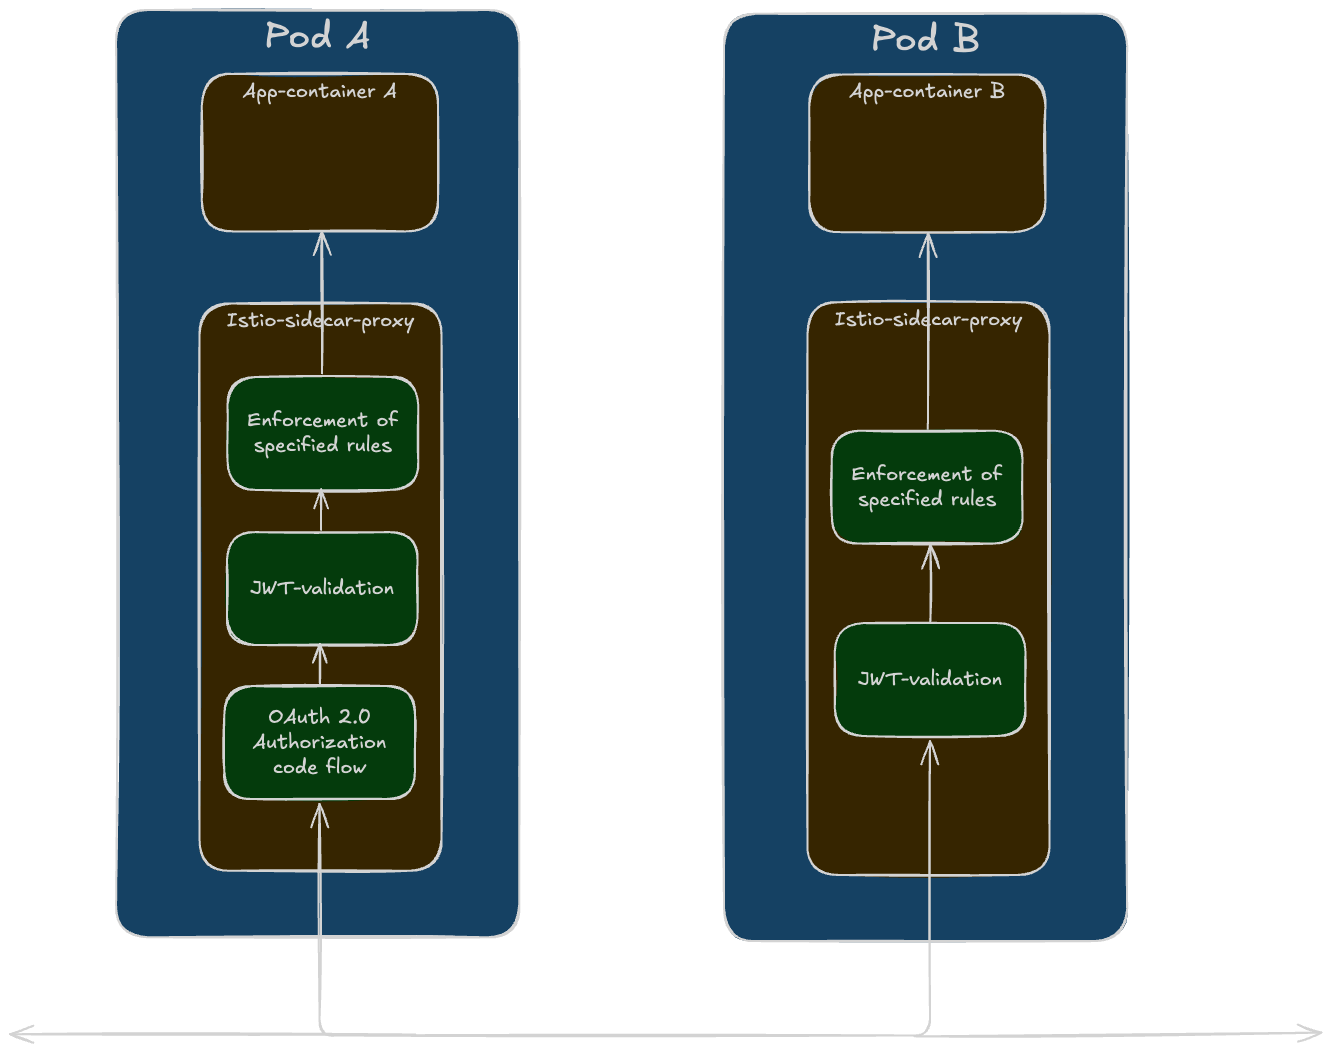
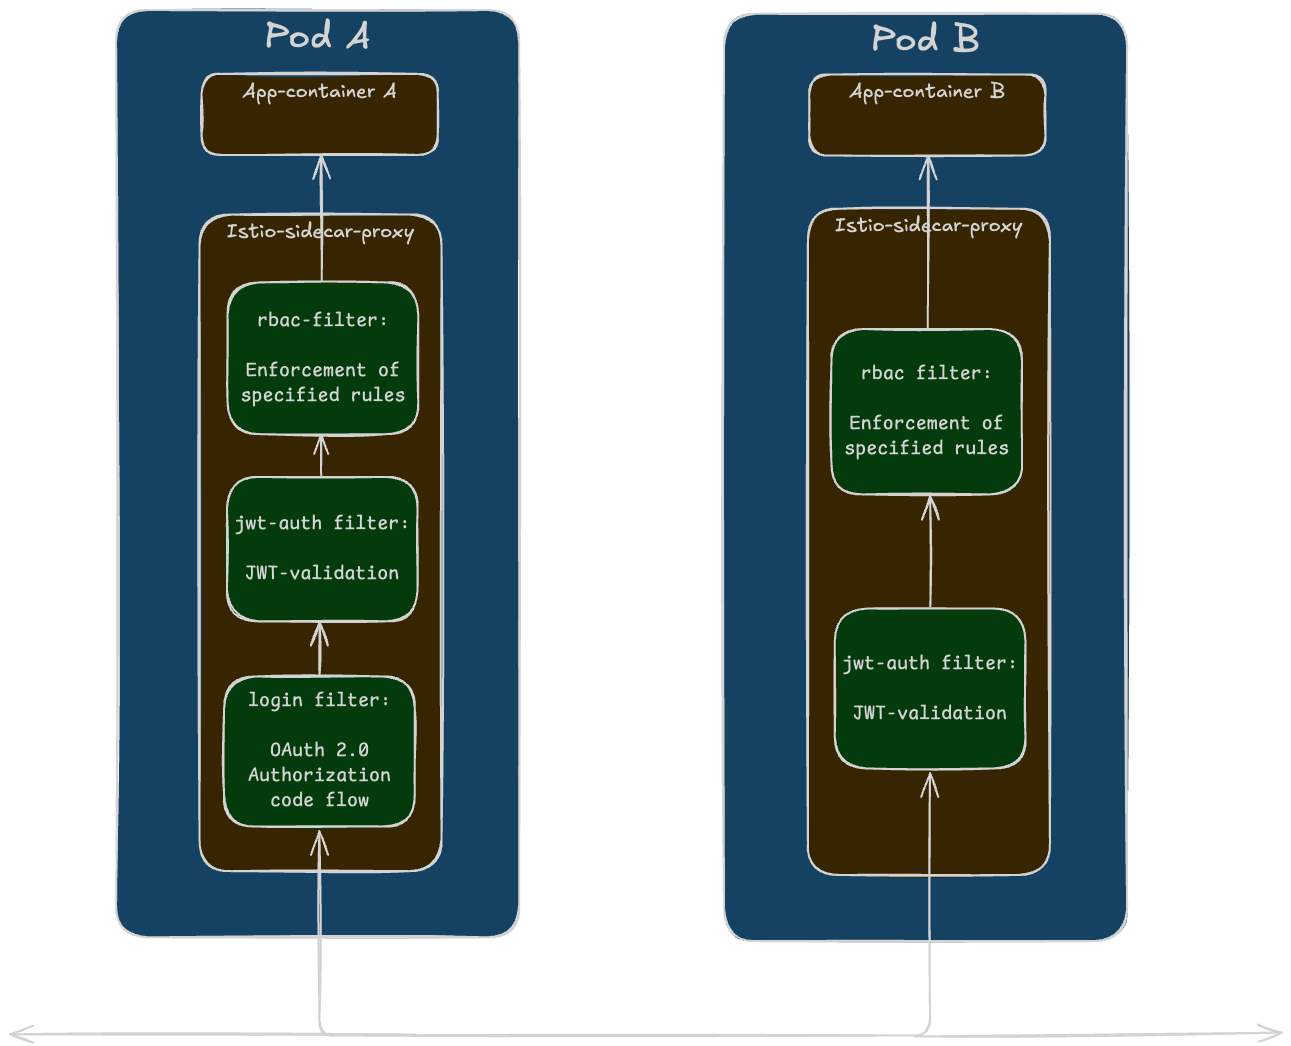
Update README.md

diff --git a/README.md b/README.md
@@ -1,18 +1,36 @@
-<p>
-  <img src="ztoperator_logo.png" alt="Architecture Diagram" width="600"/>
+<p align="center">
+  <img src="ztoperator_logo.png" alt="Ztoperator Logo" width="600"/>
 </p>
 
-Ztoperator is a Kubernetes operator that simplifies and enforces zero trust security for workloads using Istio and OAuth 2.0. 
-At the core of Ztoperator is the custom resource definition (CRD) AuthPolicy, which provides an abstraction layer for specifying authentication and authorization rules based on OAuth 2.0.
+# Ztoperator
 
+**Ztoperator** is a Kubernetes Operator that simplifies and enforces Zero Trust security for workloads by integrating with **Istio** and **OAuth 2.0**.
 
-# Core functionality
-Ztoperator provides one CRD, AuthPolicy, which configures authentication and authorization rules towards an arbitrary identity provider supporting OAuth 2.0 and Open ID Connect (OIDC). 
-Ztoperator uses Istio RequestAuthentication and AuthorizationPolicy to validate the authenticity of requetss, as well as authorize requests based on JWT claims. 
-Optionally, an [OAuth EnvoyFilter](https://www.envoyproxy.io/docs/envoy/latest/configuration/http/http_filters/oauth2_filter) 
-can also be created to support login using the authorization code flow. 
+At the heart of Ztoperator is the custom resource definition (**CRD**) `AuthPolicy`, which provides a high-level abstraction for configuring authentication and authorization rules using **OAuth 2.0** and **OpenID Connect (OIDC)**.
 
-Example AuthPolicy:
+---
+
+## ✨ Core Functionality
+
+Ztoperator introduces a single CRD: `AuthPolicy`. It allows you to:
+
+- Define authentication and authorization policies for workloads.
+- Integrate with any identity provider that supports OAuth 2.0 and OIDC.
+- Validate request authenticity using Istio's `RequestAuthentication`.
+- Authorize access based on JWT claims using Istio's `AuthorizationPolicy`.
+- Optionally support the **OAuth 2.0 Authorization Code Flow** using Envoy’s [OAuth2 filter](https://www.envoyproxy.io/docs/envoy/latest/configuration/http/http_filters/oauth2_filter).
+
+---
+
+### 🔧 Example `AuthPolicy`
+
+The following `AuthPolicy` manifest configures access control for workloads labeled `app: some-app`. 
+It integrates with an external OAuth 2.0 and OpenID Connect (OIDC) provider with a well-known endpoint at `https://example.com/.well-known/openid-configuration`, 
+enabling JWT-based authentication and claim-based authorization using Istio `RequestAuthentication` and `AuthorizationPolicies`. 
+It allows unauthenticated GET requests to `/public` and enforces that GET, POST and PUT towards `/admin` requires an authenticated JWT with the claim `role` set to `admin`. 
+It also supports automatic OAuth 2.0 login with specified scopes and redirect/logout paths. Automatic OAuth 2.0 login will trigger on requests towards protected endpoints, 
+except for requests towards `/api*` where `denyRedirect` is set to `true`.  
+
 ```yaml
 apiVersion: ztoperator.kartverket.no/v1alpha1
 kind: AuthPolicy
@@ -27,7 +45,7 @@ spec:
   audience:
     - example-audience
   acceptedResources:
-   - https://some-app.com
+    - https://some-app.com
   autoLogin:
     enabled: true
     logoutPath: /logout
@@ -41,40 +59,60 @@ spec:
     secretRef: oauth-secret
   authRules:
     - paths:
-      - /api*
+        - /api*
       denyRedirect: true
     - paths:
-      - /admin
+        - /admin
       methods:
-      - GET
-      - POST
-      - PUT
+        - GET
+        - POST
+        - PUT
       when:
-      - claim: role
-        values:
-          - "admin"
+        - claim: role
+          values:
+            - "admin"
   ignoreAuthRules:
     - paths:
-      - /public
+        - /public
       methods:
-      - GET
+        - GET
 ```
 
-## Local development
-Please refer to [CONTRIBUTING.md](CONTRIBUTING.md) on how to run and test ztoperator locally.
+---
 
-## How Ztoperator works
+## 🧪 Local Development
 
-Ztoperator enforces authentication and authorization of incoming requests towards one of more workloads by utilizing Istio and Envoy's 
-CRD's to enrich the capabilities of the Istio sidecar proxy. Under the hood, [`EnvoyFilters`](https://istio.io/latest/docs/reference/config/networking/envoy-filter/) 
-is used to enforce OAuth 2.0 authorization code flow, validation of JWT authenticity and enforcement of allow and deny rules based on JWT claims. 
-The following figure shows how Ztoperator sets up multiple `EnvoyFilters` in the istio sidecar proxy of a Kubernetes pod. Traffic always flows through 
-the Istio sidecar proxy before reaching the app container. `Pod A` has configured authentication and authorization of incoming requests, as well as auto-login, 
-while `Pod B` has configured authentication and authorization of incoming requests, but no auto-login.
+Refer to [CONTRIBUTING.md](CONTRIBUTING.md) for instructions on how to run and test Ztoperator locally.
+
+---
+
+## 🔍 How Ztoperator Works
+
+Ztoperator enforces **authentication** and **authorization** for incoming traffic by leveraging Istio's capabilities in combination with **custom EnvoyFilters**. These filters extend the Istio sidecar proxy’s functionality to:
+
+- Handle OAuth 2.0 Authorization Code Flow.
+- Validate JWT tokens.
+- Enforce access rules based on claims.
+
+The diagram below shows how Ztoperator configures multiple Envoy filters inside the Istio sidecar proxy for each pod. All incoming traffic flows through the sidecar proxy **before reaching the application container**.
+
+- **Pod A** has both authentication/authorization and auto-login enabled.
+- **Pod B** has only authentication/authorization enabled (no auto-login).
 
 <picture>
   <source media="(prefers-color-scheme: dark)" srcset="./ztoperator_arch_dark.png">
-  <img alt="The EnvoyFilters used and their placement in the Istio sidecar proxy." src="./ztoperator_arch_light.png" width="600">
+  <img alt="The EnvoyFilters used and their execution in the Istio sidecar proxy." src="./ztoperator_arch_light.png" width="600">
 </picture>
 
+---
 
+### 🛠 EnvoyFilter Execution Order
+
+The Envoy filters are applied in a strict sequence:
+
+1. **`login` filter**: Handles auto-login logic. If login is triggered and successfully performed, it injects an `Authorization` header with a bearer token.
+2. **`jwt-auth` filter**: Validates the JWT token included in the request.
+3. **`rbac` filter**: Processes access control rules based on claims in the validated JWT.
+
+> [!NOTE]
+> The `rbac` filter only evaluates rules **after** successful JWT validation and enforce rules based on claims provided by the `jwt-filter`. If JWT validation fails, the request is denied before RBAC rules are checked.
